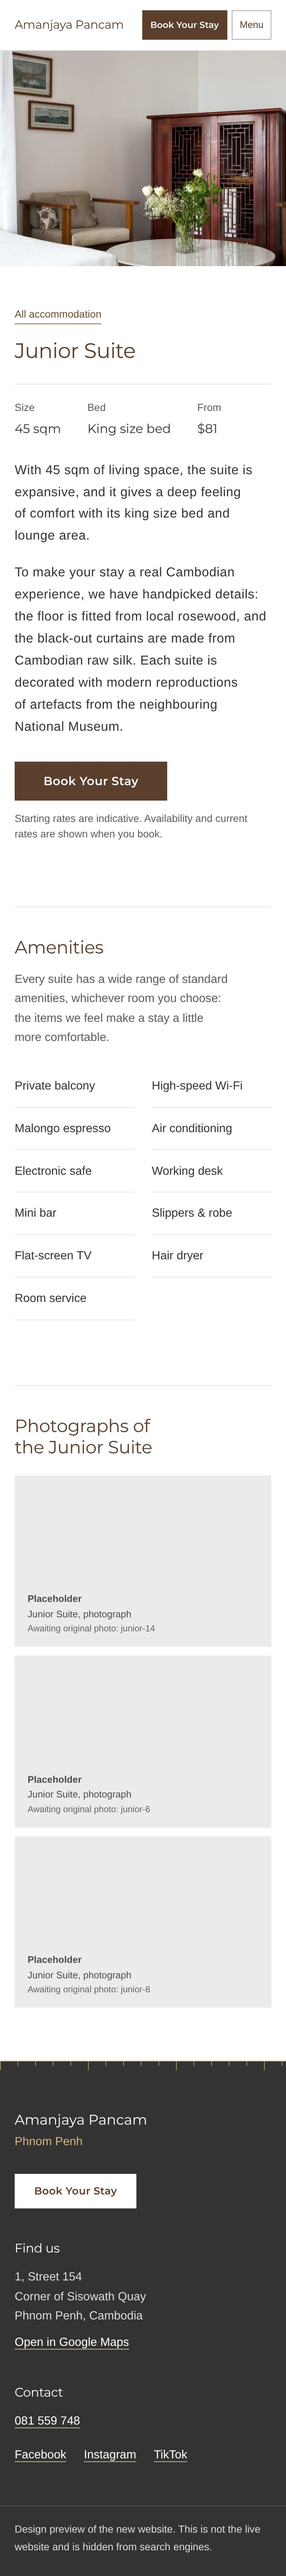
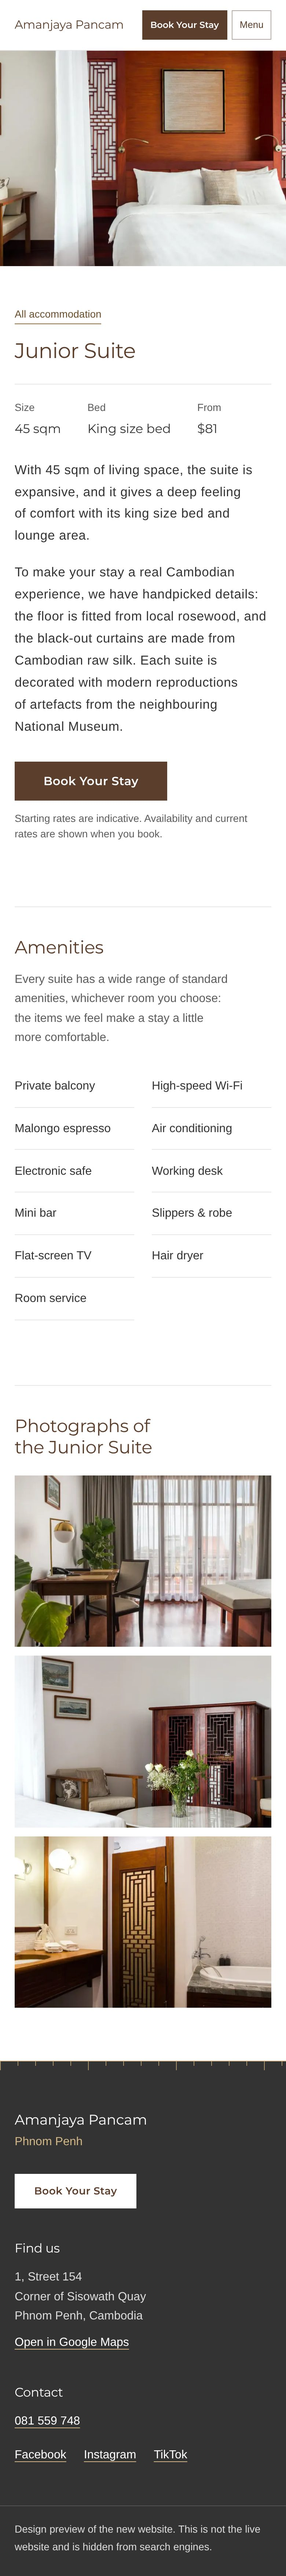
Junior Suite page: real photographs, junior-8 as the main image
Renames the three uploaded files to junior-14.webp, junior-6.webp and
junior-8.webp and removes every placeholder. junior-8 (the bed and the wood
headboard wall) leads the page; the gallery shows the work corner, the lounge
corner and the bathroom. Descriptions say only what each photograph shows, with
per-photograph crops for desktop and phones. Layout, typography, amenities and
price are unchanged. Notes in docs/ROOM-TEMPLATE.md and the image manifest.

Claude-Session: https://claude.ai/code/session_01Ltb6LhfXKYs7J7ZKfoUyej

Changed region(s): [[0.0308, 0.5625, 0.9538, 0.7812], [0.0, 0.0, 1.0, 0.125]]

diff --git a/src/content/rooms.ts b/src/content/rooms.ts
@@ -79,11 +79,21 @@ export const rooms: Room[] = [
       'Hair dryer',
       'Room service',
     ],
-    // The existing page's carousel shows exactly these four, in this order.
+    // The four photographs on the existing page's carousel (originals under /wp-content/uploads/). The team chose
+    // junior-8 to lead (the bed and the room's wood detailing); on the existing page it is the fourth slide.
+    // Each description says only what the photograph shows.
     photos: [
       {
+        key: 'junior-8',
+        alt: 'The bed in the Junior Suite against a headboard wall of warm wood with lattice panels, a square textile panel and brass reading lights, with a sheer curtain, a small sofa with patterned cushions and framed prints to the left',
+        // On phones the 4:3 crop keeps the whole headboard and bed and trims the framed prints on the left.
+        position: '75% 50%',
+        source: '2020/09/Amanjaya-junior8.jpg',
+      },
+      {
         key: 'junior-14',
-        alt: 'The Junior Suite at Amanjaya Pancam',
+        alt: 'The work corner of the Junior Suite: a wooden desk with a brass and white lamp and an upholstered chair, large plants, a bench at the foot of the bed, and tall windows with sheer curtains onto the balcony',
+        position: '42% 50%',
         source: '2020/09/Amanjaya-junior14.jpg',
       },
       {
@@ -94,13 +104,9 @@ export const rooms: Room[] = [
       },
       {
         key: 'junior-6',
-        alt: 'The Junior Suite at Amanjaya Pancam',
+        alt: 'The bathroom of the Junior Suite: a wooden vanity with a basin and round wall lights, a wood lattice door, and a bathtub with pale tiled walls',
+        position: '52% 50%',
         source: '2020/09/Amanjaya-junior6.jpg',
-      },
-      {
-        key: 'junior-8',
-        alt: 'The Junior Suite at Amanjaya Pancam',
-        source: '2020/09/Amanjaya-junior8.jpg',
       },
     ],
   },

diff --git a/docs/ROOM-TEMPLATE.md b/docs/ROOM-TEMPLATE.md
@@ -29,22 +29,24 @@ All from the existing page, `Junior Suite - Amanjaya Suites.html` in the reposit
 
 Nothing else is stated: no occupancy, view, bathroom, floor or bed-size detail was added because the export does not give them.
 
-## Photographs: what is in place and what is pending
+## Photographs
 
-The existing page's carousel shows exactly four photographs, in this order. The build environment cannot reach the live site, so only one could be downloaded; the others appear as clearly labelled placeholders until fetched.
+All four photographs from the existing page's carousel are in `src/assets/photos/` (supplied by the hotel team), so the page has no placeholders. The order on the new page is the team's choice; on the existing page the order is junior14, junior12, junior6, junior8.
 
-| Order | Key | Original (under `https://www.amanjaya-suites-phnom-penh.com/wp-content/uploads/`) | State |
-|---|---|---|---|
-| 1 | `junior-14` | `2020/09/Amanjaya-junior14.jpg` | **Pending** (the lead photograph on the existing page; 16:9) |
-| 2 | `suite-junior` | `2020/09/Amanjaya-junior12.jpg` | In the repository; leads the page until `junior-14` arrives |
-| 3 | `junior-6` | `2020/09/Amanjaya-junior6.jpg` | **Pending** (16:9) |
-| 4 | `junior-8` | `2020/09/Amanjaya-junior8.jpg` | **Pending** (ratio not stated in the export) |
+| Page position | Key | Original (under `https://www.amanjaya-suites-phnom-penh.com/wp-content/uploads/`) | Shows | Crop |
+|---|---|---|---|---|
+| Main photograph | `junior-8` | `2020/09/Amanjaya-junior8.jpg` | The bed against a warm wood headboard wall with lattice panels, a square textile panel, brass reading lights; sheer curtain, small sofa, framed prints | 16:9 as is; on phones 4:3 at 75% 50%, which keeps the headboard and bed and trims the prints |
+| Gallery 1 | `junior-14` | `2020/09/Amanjaya-junior14.jpg` | The work corner: desk, lamp, chair, plants, bench, tall windows onto the balcony | 3:2 at 42% 50% |
+| Gallery 2 | `suite-junior` | `2020/09/Amanjaya-junior12.jpg` | A lounge corner: armchairs, lattice-fronted cabinet, marble table with flowers, framed prints | 3:2 at 60% 50% |
+| Gallery 3 | `junior-6` | `2020/09/Amanjaya-junior6.jpg` | The bathroom: wooden vanity, round wall lights, wood lattice door, bathtub | 3:2 at 52% 50% |
 
-To fill them in, on a machine that can reach the existing site run `npm run fetch:images` (downloads the three missing files into `src/assets/photos/`), or drop files with those names into that folder. The large photograph is always the first one that exists, so `junior-14` takes over automatically and `suite-junior` moves into the gallery. Then replace the generic alt text for `junior-14`, `junior-6` and `junior-8` in `rooms.ts` with a description of what each shows (they were not viewed, so they were not described).
+The large photograph is the first entry in the room's `photos` list whose file exists; the rest form the gallery. To change the lead, reorder the list in `rooms.ts`. If a file is missing, its tile shows a labelled placeholder (nothing is hotlinked); run `npm run fetch:images` where the existing site is reachable to download any that are registered in the manifest.
+
+The descriptions (alt text) say only what each photograph shows. The bathroom photograph shows a bathtub, but the amenities list is taken only from the hotel's amenities block, so no bathroom features are listed or claimed.
 
 More Junior photographs exist on the existing site (`junior1`, `junior2`, `junior5`, `junior13`; see `candidates.rooms.junior` in the manifest) but are not on the Junior page's own carousel, so they are not used.
 
-Photograph quality: `junior12` is 1368px wide, so the large photograph sits within the page margins rather than running edge to edge, to avoid enlarging it.
+Photograph quality: the three photographs are 1325 to 1368px wide, so the large photograph sits within the page margins (at most 1344px) rather than running edge to edge, to avoid enlarging it.
 
 ## Design
 
